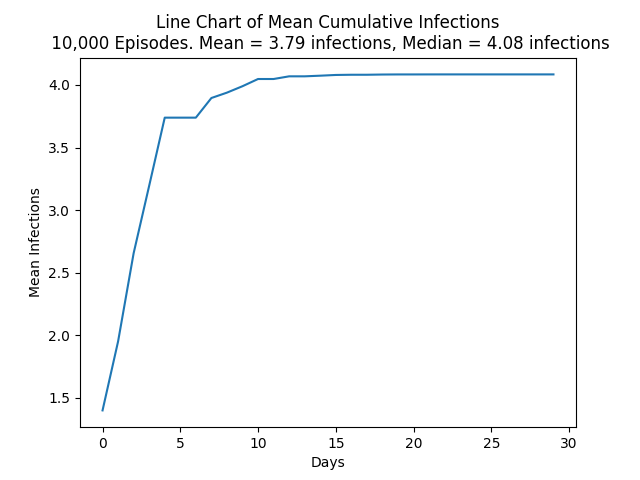
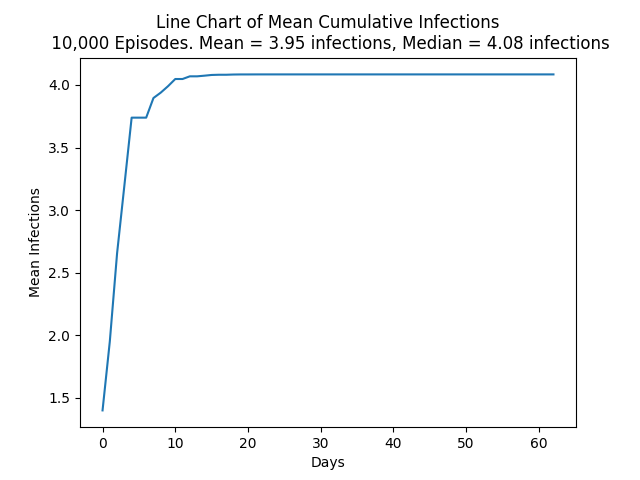
Generates 2 csv files into figs folder

diff --git a/src/mp1.py b/src/mp1.py
@@ -93,7 +93,7 @@ n_days_infectious=args['n_days_infectious']
 stu_array = np.array([[1, 1]] + [[0, 0]]*(n_students - 1))
 infections = np.array([1]) # Array to track the number infected per day. Update upon a new infection.
 
-def sim_day(students, infects, day=0):
+def sim_day(students, infects, day=0, p=0.02):
     """Simulates a day at school and the infections that may occur.
         Given: students: stu_array of type np.array;
                 infects: number of students who've been infected of type int
@@ -119,7 +119,7 @@ def sim_day(students, infects, day=0):
                             infects += 1
     return students, infects
 
-def episode():
+def episode(p=0.02):
     """One episode simulates the virus, beginning with Tommy, spreading in a classroom until the virus infects everyone
      or no one is contagious.
         Returns: infections - np array containing number infected by each day"""
@@ -132,7 +132,7 @@ def episode():
     day = 0
     infected = 1
     while contagious and day < n_days: # Each loop sims 1 day
-        stu_array, new_infections = sim_day(stu_array, infections[-1], day)
+        stu_array, new_infections = sim_day(stu_array, infections[-1], day, p)
         infected += new_infections
         infections[day] = infected
 
@@ -183,8 +183,7 @@ def main():
     # n_days = 41
     expected_df = pd.DataFrame(list(range(1, n_days+1)), columns=["Day"])
     expected_df['Mean'] = expected_values[:n_days]
-    #save_table(expected_df, f'Expected Number of Infected Students Per Day\nMonte Carlo with {eps} Simulations', 'day_means')
-    #from IPython.display import display
+
     print(expected_df)
 
     # Part C - Day 2 Expected Value
@@ -201,6 +200,12 @@ def main():
             if total < 20:
                 probs[total] += dist1[day1] * dist2[x]
 
+    probs_row = [[probs[0]], [probs[1]], [probs[2]], [probs[3]], [probs[4]], [probs[5]], [probs[6]], [probs[7]], [probs[8]], [probs[9]], 
+                 [probs[10]], [probs[11]], [probs[12]], [probs[13]], [probs[14]], [probs[15]], [probs[16]], [probs[17]], [probs[18]], 
+                 [probs[19]]]
+    day2_df = pd.DataFrame([[round(b, 5) for b in probs]], columns=[f'{a}' for a in range(1, 21)])
+    day2_df.to_csv(fig_dir / 'day2_dist.csv')
+    print('Output probability distribution for Part C to "day2_dist.csv"')
 
     mean2 = (np.arange(20).dot(probs))+1
     print('Expected value of students infected by day 2:', mean2)
@@ -247,6 +252,25 @@ def main():
     plt.ylabel('Mean Infections')
     plt.savefig(fig_dir / f'Flu_Pandemic_means_{eps}_weekend_{weekend_check}.png')
     plt.show()
+    
+    # What p will infect all?
+    # Simulate many episodes
+    print('Simulating different levels of p...')
+    eps2 = 1000 # Number of episodes to simulate
+    p_array = np.arange(0.02, 0.16, 0.01)
+    day_results2 = np.zeros((eps2, 63, len(p_array))) # Store number infected by each day for each episode for each p
+    p_range = np.zeros(shape=(len(p_array), 2))
+    for p2 in range(len(p_array)):
+        episodes = 0
+        np.random.seed(2 ** 23 - 1)
+        while episodes < eps2: # Each loop sims 1 episode
+            day_results2[episodes, :, p2] = episode(p_array[p2])
+            episodes += 1
+        p_range[p2, 0] = p_array[p2]
+        p_range[p2, 1] = round(len(day_results2[day_results2[:, -1, p2] == 21])/eps2 * 100, 3)
+    p_df = pd.DataFrame(p_range, columns=['p', '% Fully Infected'])
+    p_df.to_csv(fig_dir / 'p_range.csv')
+    print('Sim complete. Output results to "p_range.csv"')
 
 if __name__ == "__main__":
     main()

diff --git a/README.md b/README.md
@@ -64,3 +64,7 @@ Optionally, you may use the included Poetry Environment Files:
   * Flu_Pandemic_Fig_2 - Histogram of First Two Days of Pandemic (Theorectical)
   * Flu_Pandemic_Fig_2 - Histogram of First Two Days of Pandemic (Empirical)
   * Flu_Pandemic_means - Line Chart of Cumulative number of Mean Infections
+
+* Tables Directory - csv files generated from the Python script that were used to create Table 1 and Table 2 in the report.
+  * day2_dist.csv - The theoretical distribution of kids infected by day 2 (Table 1)
+  * p_range.csv - Percent of episodes that ended in all kids infected for simulations at differnet infection rates, p. Based on Monte Carlo simulations of 1000 episodes each. (Table 2)
